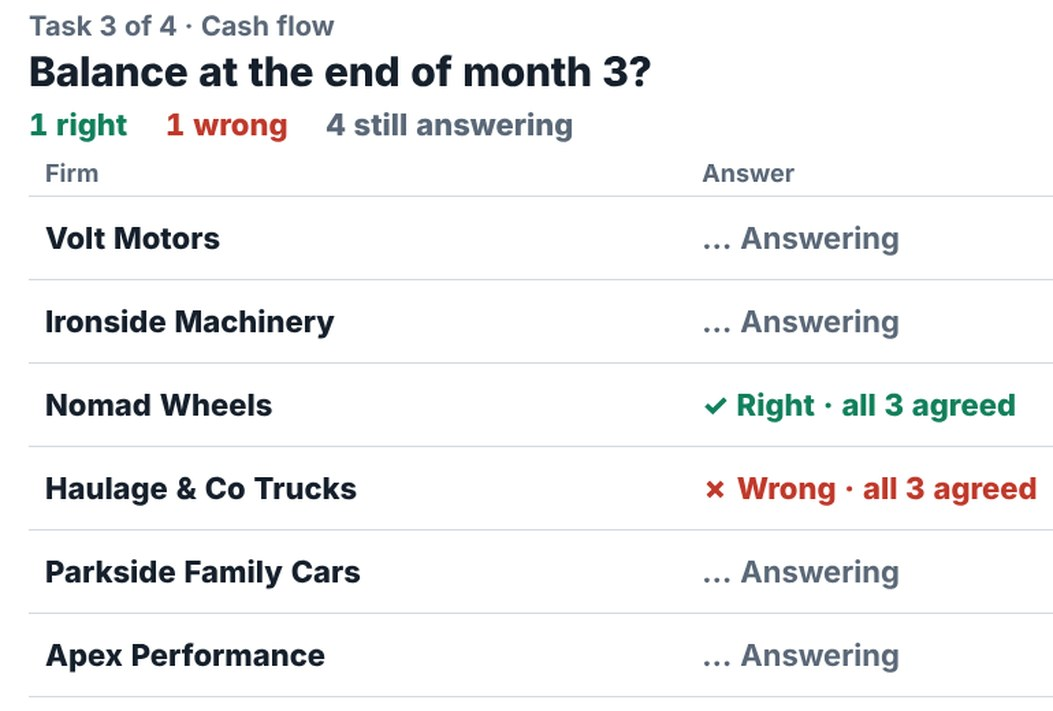
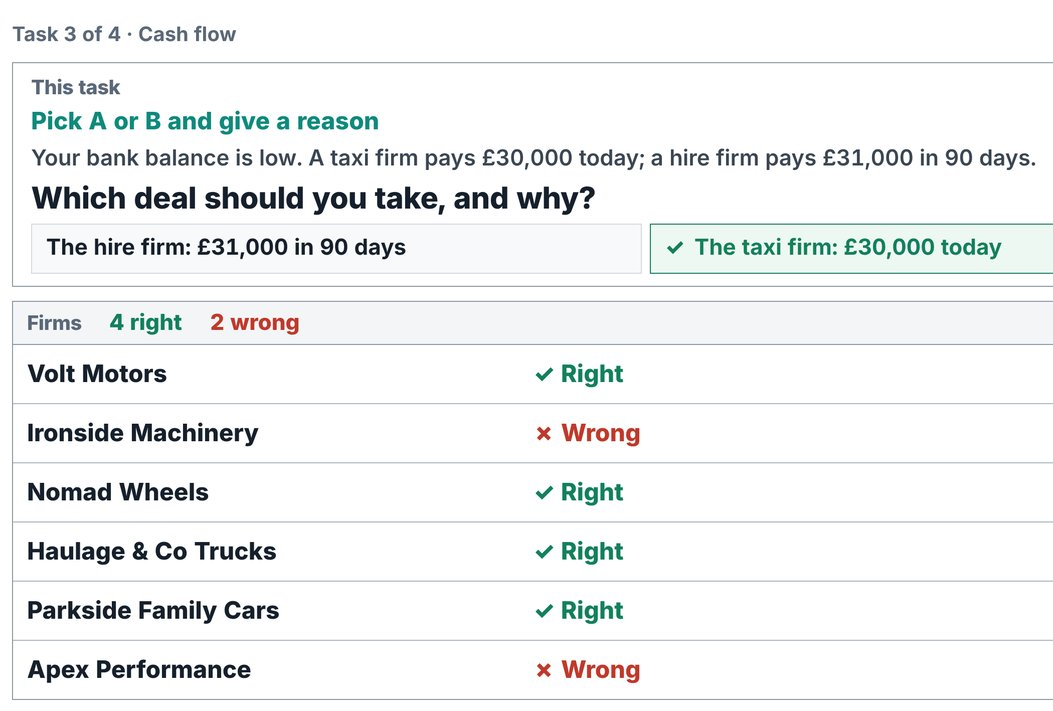
Website: teacher Tasks tab picture retaken from the game at 5f7d0bec (owner rule 28.10.2026)
The game's 4.11 release changed the teacher Tasks tab (the task in its own
"This task" box, a "Firms" box with one word per firm, View opens "Answer
from <firm>"). The home gallery and /topic-tasks/ still showed the old tab
("... Answering", "Right · all 3 agreed", "View task").

- assets/tbs-web/uk/uk-g-topic-dashboard.jpg: 1366x768 DSF2 capture of the
  real game (bs-multiplayer origin/main 5f7d0bec, local real-app harness,
  six firms, Cash flow task 3 closed), 1600x900 JPEG as before.
- assets/tbs-web/uk/uk-g-topic-dashboard-detail.jpg: the phone crop on
  /topic-tasks/ from the same capture, 1053x711 as before.
- ?v=20261104tasks on both pages; alt text says what the picture now shows.
  Captions unchanged.

Claude-Session: https://claude.ai/code/session_01Np2n7mwxyzcaQWByNZ1ReD

diff --git a/topic-tasks/index.html b/topic-tasks/index.html
@@ -238,7 +238,7 @@ footer a{color:#40506e;text-decoration:none;margin-right:18px}
       <div class="card"><h3>Who agreed</h3><p>See whether the whole firm was of one mind.</p></div>
       <div class="card"><h3>Each firm's task</h3><p>Open any firm to see what it was asked.</p></div>
     </div>
-    <figure class="shot"><picture><source media="(max-width:600px)" srcset="/assets/tbs-web/uk/uk-g-topic-dashboard-detail.jpg?v=20261029v" width="1053" height="711"><img src="/assets/tbs-web/uk/uk-g-topic-dashboard.jpg?v=20261029v" width="1600" height="900" loading="lazy" decoding="async" alt="Teacher dashboard for the Cash flow topic: the task question once, and six firms in rows with right or wrong and whether everyone agreed. A View task button opens each firm's own figures."></picture><figcaption>Your dashboard: each task, and how every firm answered.</figcaption></figure>
+    <figure class="shot"><picture><source media="(max-width:600px)" srcset="/assets/tbs-web/uk/uk-g-topic-dashboard-detail.jpg?v=20261104tasks" width="1053" height="711"><img src="/assets/tbs-web/uk/uk-g-topic-dashboard.jpg?v=20261104tasks" width="1600" height="900" loading="lazy" decoding="async" alt="Teacher dashboard for the Cash flow topic: the task in its own box, then six firms in rows, each Right or Wrong. A View button opens that firm's answer and how many agreed."></picture><figcaption>Your dashboard: each task, and how every firm answered.</figcaption></figure>
   </div>
 </section>
 

diff --git a/index.html b/index.html
@@ -691,7 +691,7 @@
         <figcaption>The whole class on one page, with pause and stop one click away.</figcaption>
       </figure>
       <figure class="motor-gal-item">
-        <img src="/assets/tbs-web/uk/uk-g-topic-dashboard.jpg?v=20261029v" width="1600" height="900" loading="lazy" decoding="async" alt="The teacher dashboard Tasks tab: the question once, and for each of six firms right or wrong and whether everyone agreed" />
+        <img src="/assets/tbs-web/uk/uk-g-topic-dashboard.jpg?v=20261104tasks" width="1600" height="900" loading="lazy" decoding="async" alt="The teacher dashboard Tasks tab: the task in its own box, then each of six firms Right or Wrong, with View to open that firm's answer and how many agreed" />
         <figcaption>Every firm, every task: right or wrong, and who agreed.</figcaption>
       </figure>
       <figure class="motor-gal-item">
